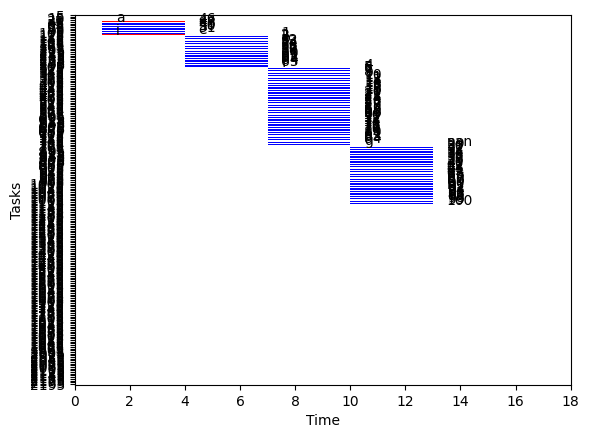
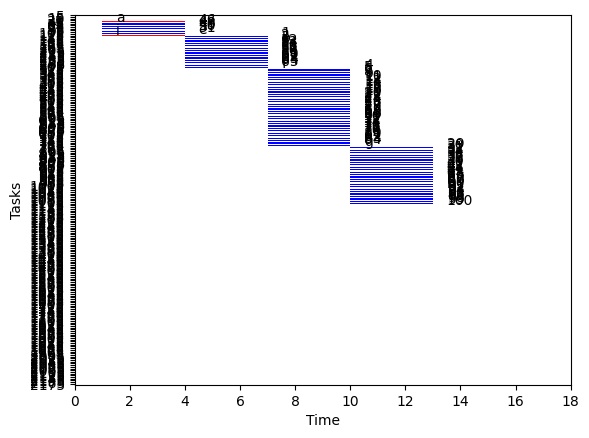
commit all

diff --git a/pages/plan.py b/pages/plan.py
@@ -262,28 +262,28 @@ with tab4:
       rdays = (ndays * (reportsinplan - 2))
       for i in range(reportsinplan - 5, reportsinplan - 2):
          ldays = (1 + i)  * ndays
-         data = {'4-Inspect', sdate+timedelta(days=ldays), sdate+timedelta(days=rdays), msstatus}
+         data = ['4-Inspect', sdate+timedelta(days=ldays), sdate+timedelta(days=rdays), msstatus]
          dfmlist.append(data)
 
       msstatus = 'Planned'
       rdays = (ndays * (reportsinplan - 3))
       for i in range(reportsinplan - 6, (reportsinplan - 3)):
          ldays = (1 + i)  * ndays
-         data = {'3-Build', sdate+timedelta(days=ldays), sdate+timedelta(days=rdays), msstatus}
+         data = ['3-Build', sdate+timedelta(days=ldays), sdate+timedelta(days=rdays), msstatus]
          dfmlist.append(data)
 
       msstatus = 'In Progress'
       rdays = (ndays * 4)
       for i in range(1, (reportsinplan - 4)):
          ldays = (1 + i)  * ndays
-         data = {'2-Design', sdate+timedelta(days=ldays), sdate+timedelta(days=rdays), msstatus}
+         data = ['2-Design', sdate+timedelta(days=ldays), sdate+timedelta(days=rdays), msstatus]
          dfmlist.append(data)
 
       msstatus = 'In Progress'
       rdays = (ndays * 3)
       for i in range(0, 3):
          ldays = (1 + i)  * ndays
-         data = {'1-Plan', sdate+timedelta(days=ldays), sdate+timedelta(days=rdays), msstatus}
+         data = ['1-Plan', sdate+timedelta(days=ldays), sdate+timedelta(days=rdays), msstatus]
          dfmlist.append(data)
          # st.write(rdays, ndays, ldays)
 
@@ -291,18 +291,18 @@ with tab4:
       rdays = (ndays * reportsinplan)
       for i in range(reportsinplan - 3, reportsinplan):
          ldays = (1 + i)  * ndays
-         data = {'6-Close', sdate+timedelta(days=ldays), sdate+timedelta(days=rdays), msstatus}
+         data = ['6-Close', sdate+timedelta(days=ldays), sdate+timedelta(days=rdays), msstatus]
          dfmlist.append(data)
   
       # get status from phase
       msstatus = 'Baseline'
       for i in range(1, reportsinplan + 1):
          ldays = ndays*i
-         data = {'Baseline', sdate+timedelta(days=ldays), sdate+timedelta(days=ldays), msstatus}
+         data = ['Baseline', sdate+timedelta(days=ldays), sdate+timedelta(days=ldays), msstatus]
          dfmlist.append(data)
 
       dfm = pd.DataFrame(dfmlist)
-      dfm = dfm.rename(columns={0: "Milestone", 1: "plandate", 2: "reportdate", 3: "Status"})
+      dfm = dfm.rename(columns={0: "Milestone", 1: "reportdate", 2: "plandate", 3: "Status"})
       dfresponse = AgGrid(dfm, height=200, theme='streamlit', editable=True, fit_columns_on_grid_load=True)
 
       chart = alt.Chart(dfm).mark_line(point = True).encode(

diff --git a/pages/wbs.py b/pages/wbs.py
@@ -97,7 +97,6 @@ def find_paths(graph, node, slackTimes, paths):
 # https://github.com/sanatsingh/Critical-Path-Method-SE/blob/master/ca_2.py
 # https://levelup.gitconnected.com/how-to-create-a-multi-layer-gantt-chart-using-plotly-e7d7f158938c
 
-
 im = Image.open("assets/images/BlueZoneIT.ico")
 st.set_page_config(
       page_title="The PM Monitor Work Breakdown Activities",
@@ -139,8 +138,11 @@ if uploaded_file is not None:
     Tasks['Start'] = Tasks['Start'] + pd.Timedelta(days=daysoffset)
     #Tasks['Start'] = Tasks['Start'] + pd.Timedelta(days=daysoffset)
     #Tasks['finish'] = Tasks['Start'] + pd.to_timedelta(Tasks['du'], unit='D') 
+    # Tasks = st.dataframe( Tasks[Tasks['Type'] == 'Milestone'] )
     df = Tasks
-    df.replace('-', np.nan)
+    #df = Tasks
+    #df.replace('-', np.nan)
+
 
     for index, row in Tasks.iterrows():
          nodes = row['pr'].split(' ')
@@ -210,14 +212,14 @@ if uploaded_file is not None:
 
     # push lists back to data frame but need to add extra line for end
     abca = list(slackTimes.values())
-    abca.append(0)
+    #abca.append(0)
     Tasks['slack'] = abca
     abcb = list(startTimes.values())
-    abcb.append(0)
+    #abcb.append(0)
     Tasks['startdays'] = abcb
     Tasks['startdays'] = pd.to_numeric(Tasks['startdays'])
     abcc = list(completionTimes.values())
-    abcc.append(0)
+    #abcc.append(0)
     Tasks['enddays'] = abcc
     Tasks['enddays'] = pd.to_numeric(Tasks['enddays'])
 
